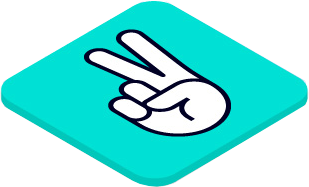
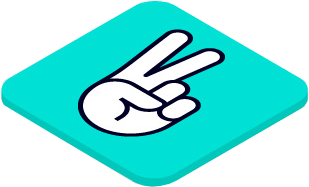
Edit style.css, flip scissors

diff --git a/css/style.css b/css/style.css
@@ -220,10 +220,15 @@ html {
     align-items:center;
 }
 
+#computer-hand {
+    transform: rotateY(180deg);
+}
+
 #player-options {
     display:flex;
-    justify-content:flex-start;
+    justify-content:center;
     align-items:center;
+    padding-top:100px;
 }
 
 #player-options span {
@@ -231,7 +236,7 @@ html {
 }
 
 .icons-rps {
-    width:100px;
+    width:80px;
     height:auto;
 }
 
